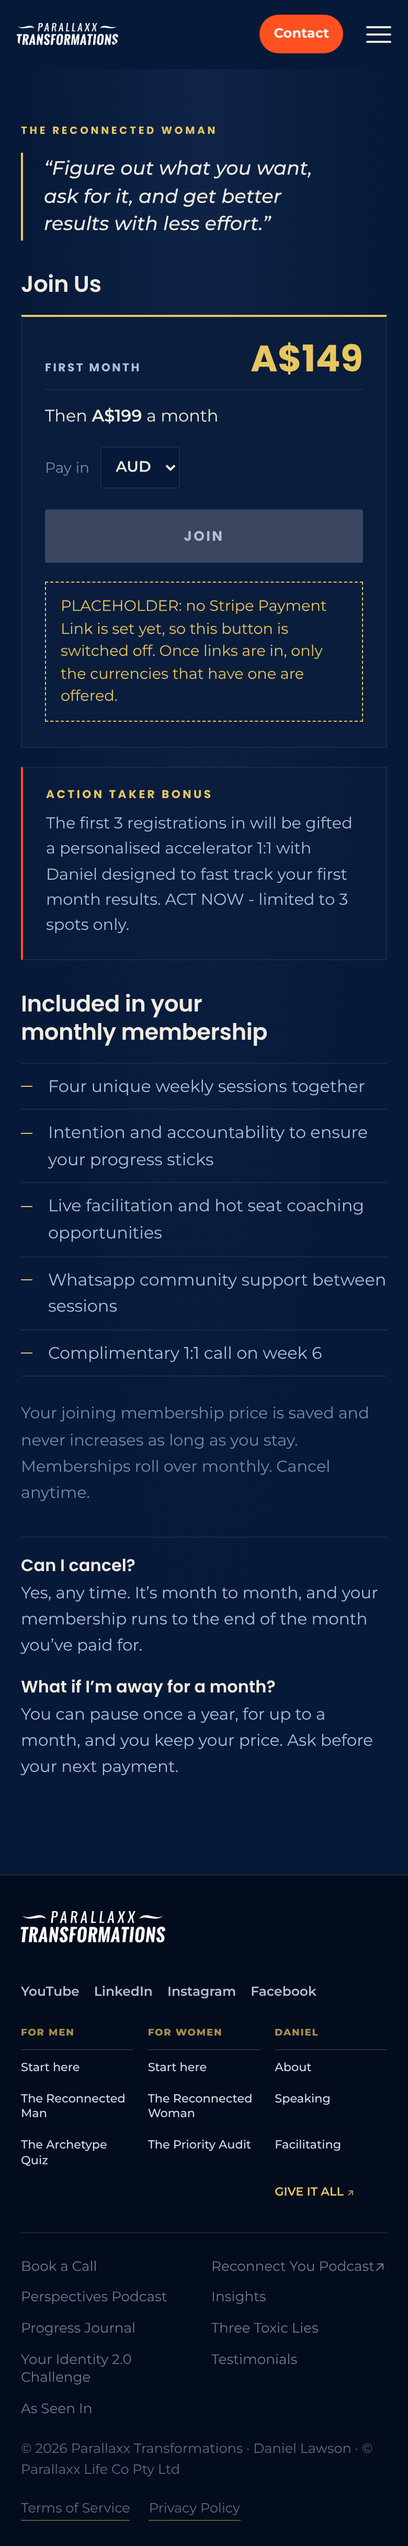
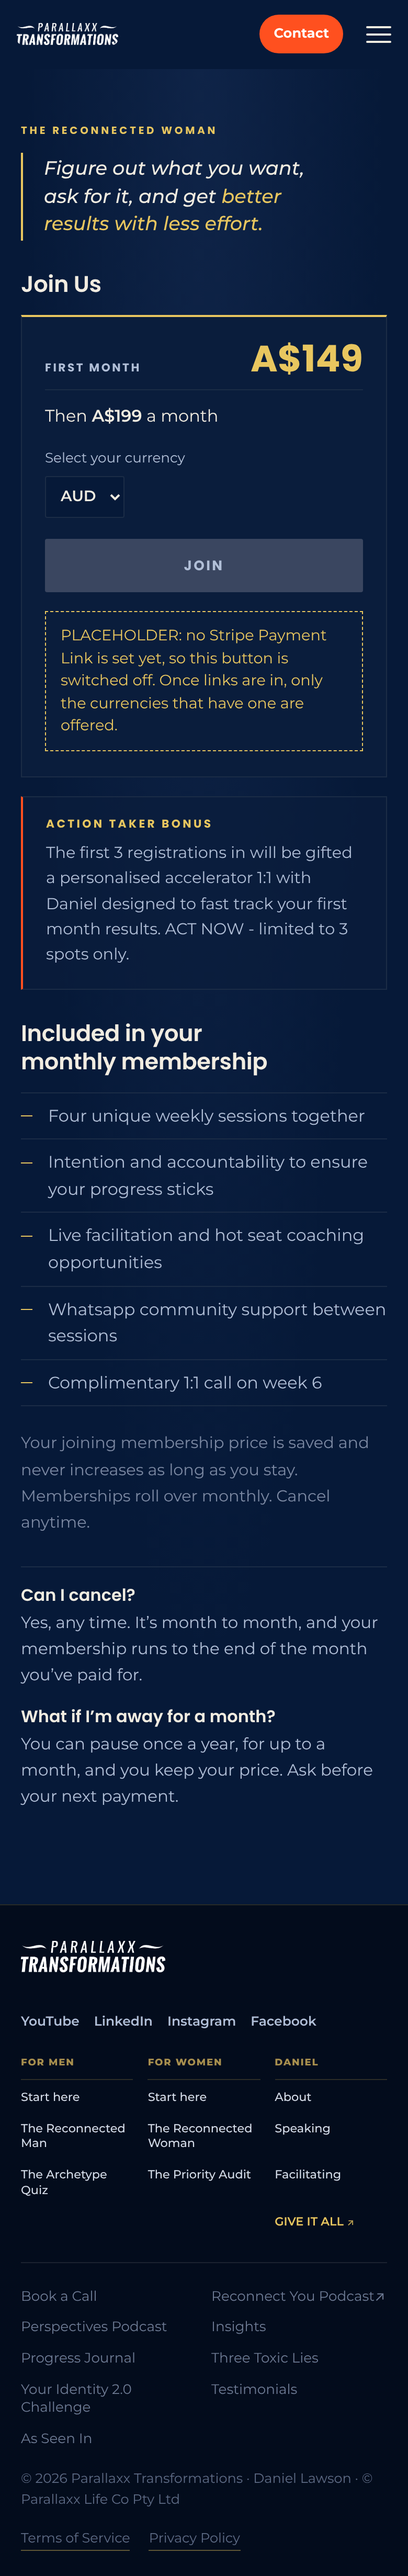
Join page: gold phrase without quote marks, 'Select your currency', promo code on the Join link
Daniel, 23 Nov. The Join link adds ?prefilled_promo_code=FIRSTMONTH to the
chosen currency's Payment Link (PROMO_CODE at the top of rw_join.py; empty
adds nothing). Not published.

Claude-Session: https://claude.ai/code/session_01CeCNG1XNZUuvNZJZtKDaWa

diff --git a/migration/rw_join.py b/migration/rw_join.py
@@ -35,6 +35,14 @@ PRICES = [
     ("ZAR", "R",        2299,   1699,  "PLACEHOLDER_STRIPE_LINK_ZAR"),
 ]
 
+# ── THE FIRST-MONTH PROMOTION CODE ──────────────────────────────────────
+# The first-month price is one Stripe promotion code. The Join button adds
+# it to whichever currency's Payment Link is chosen, as
+# ?prefilled_promo_code=FIRSTMONTH, so Stripe opens with it already applied.
+# Leave it empty ("") to add nothing. The code must exist in Stripe and the
+# Payment Link must allow promotion codes, or Stripe ignores it.
+PROMO_CODE = "FIRSTMONTH"
+
 # Which currency a browser's country gets by default. Anywhere not listed,
 # and any currency whose link is not set yet, gets EUR.
 COUNTRY_CURRENCY = {
@@ -43,7 +51,7 @@ COUNTRY_CURRENCY = {
 }
 
 # ── WORDING ─────────────────────────────────────────────────────────────
-# All of it is Daniel's, as he gave it on 23 Nov 2026 (the quote and the two
+# All of it is Daniel's, as he gave it on 23 Nov 2026 (the top line and the two
 # questions are from the Reconnected Woman page). Two spellings were his
 # typing put right, and he can reverse either: "monthly membership" (he typed
 # "month membership") and "accountability" (he typed "accountably").
@@ -55,7 +63,10 @@ WORDS = dict(
     eyebrow="The Reconnected Woman",
     # Across the top, above both columns, set as a quotation: the reminder of
     # why she is joining.
-    quote="Figure out what you want, ask for it, and get better results with less effort.",
+    # (Variable names still say "quote"; since 23 Nov it carries no quotation
+    # marks. The second part is the part set in gold.)
+    quote="Figure out what you want, ask for it, and get ",
+    quote_gold="better results with less effort.",
     # The page's one h1, above the payment column.
     heading="Join Us",
     included_heading="Included in your monthly membership",
@@ -89,12 +100,24 @@ PLACEHOLDERS = dict()
 LABEL_FIRST = "First month"
 LABEL_THEN = "Then"
 LABEL_MONTH = "a month"
-LABEL_PICKER = "Pay in"
+LABEL_PICKER = "Select your currency"
 BUTTON = "Join"
 
 
 def _has_link(row) -> bool:
     return row[4].startswith("https://")
+
+
+def join_url(link: str) -> str:
+    """The Payment Link with the promotion code added. Copes with a link that
+    already has a ?query or a #fragment, and never adds the code twice."""
+    if not PROMO_CODE:
+        return link
+    from urllib.parse import urlsplit, urlunsplit, parse_qsl, urlencode
+    u = urlsplit(link)
+    q = [(k, v) for k, v in parse_qsl(u.query, keep_blank_values=True) if k != "prefilled_promo_code"]
+    q.append(("prefilled_promo_code", PROMO_CODE))
+    return urlunsplit((u.scheme, u.netloc, u.path, urlencode(q), u.fragment))
 
 
 def offered() -> list:
@@ -124,7 +147,7 @@ def _amount(written, n):
 
 
 CSS = """
-/* LAYOUT. Across the top, full width: the eyebrow and the quote. On a phone
+/* LAYOUT. Across the top, full width: the eyebrow and the opening line. On a phone
    everything then stacks: Join Us and the payment block, the bonus, then what
    is included. From 900px it is two columns: payment and bonus on the LEFT
    (they stay in view while the right side scrolls), the details on the RIGHT. */
@@ -142,7 +165,7 @@ CSS = """
 .jn .quote{margin:0;padding:2px 0 2px 20px;border-left:2px solid var(--gold);
  font:italic 500 clamp(1.15rem,4.6vw,1.6rem)/1.45 'Montserrat',system-ui,sans-serif;color:var(--cream);
  text-wrap:balance;max-width:34em}
-.jn .quote:before{content:'\\201C'}.jn .quote:after{content:'\\201D'}
+.jn .quote .g{color:var(--gold)}
 .jn h1,.jn .h2{margin:0 0 16px;font:600 clamp(1.35rem,4.8vw,1.7rem)/1.25 'Poppins',system-ui,sans-serif;
  letter-spacing:-.01em;color:var(--cream);text-wrap:balance}
 .jn .bonus{margin:18px 0 0;padding:18px 22px 20px;border:1px solid var(--border);border-left:2px solid var(--coral);
@@ -165,7 +188,7 @@ CSS = """
 .jn .price .then{margin:12px 0 0;padding-top:12px;border-top:1px solid var(--border);
  font-size:1rem;color:var(--cream)}
 .jn .price .then b{font-weight:600;color:var(--cream)}
-.jn .pick{display:flex;align-items:center;gap:10px;margin:16px 0 0;font-size:.88rem;color:var(--slate)}
+.jn .pick{display:flex;flex-direction:column;align-items:flex-start;gap:7px;margin:16px 0 0;font-size:.82rem;color:var(--mist)}
 .jn .pick select{appearance:auto;background:var(--bg);color:var(--cream);border:1px solid var(--border);
  border-radius:2px;padding:9px 10px;font:600 .9rem/1 'Montserrat',system-ui,sans-serif;min-height:40px}
 .jn .pick select:focus-visible{outline:2px solid var(--gold);outline-offset:2px}
@@ -225,7 +248,7 @@ def inner(e) -> str:
                       f'<p>{e(WORDS["bonus"])}</p></div>')
     ph_html = "".join(f'<p class="ph">{e(v)}</p>' for v in PLACEHOLDERS.values() if v)
     if ready:
-        btn = f'<a class="join" id="jn-join" href="{e(link0)}" rel="noopener">{e(BUTTON)}</a>'
+        btn = f'<a class="join" id="jn-join" href="{e(join_url(link0))}" rel="noopener">{e(BUTTON)}</a>'
         btn_note = ""
     else:
         btn = f'<a class="join" id="jn-join" aria-disabled="true">{e(BUTTON)}</a>'
@@ -234,7 +257,7 @@ def inner(e) -> str:
     return f"""  <div class="jn">
     <div class="jn-head">
       <p class="ey">{e(WORDS['eyebrow'])}</p>
-      <blockquote class="quote">{e(WORDS['quote'])}</blockquote>
+      <p class="quote">{e(WORDS['quote'])}<span class="g">{e(WORDS['quote_gold'])}</span></p>
     </div>
     <div class="jn-pay">
       <h1>{e(WORDS['heading'])}</h1>
@@ -266,6 +289,6 @@ def inner(e) -> str:
 
 def script() -> str:
     import json
-    prices = {r[0]: [r[1], r[2], r[3], r[4] if _has_link(r) else ""] for r in offered()}
+    prices = {r[0]: [r[1], r[2], r[3], join_url(r[4]) if _has_link(r) else ""] for r in offered()}
     return JS % dict(prices=json.dumps(prices, ensure_ascii=False),
                      countries=json.dumps(COUNTRY_CURRENCY))
